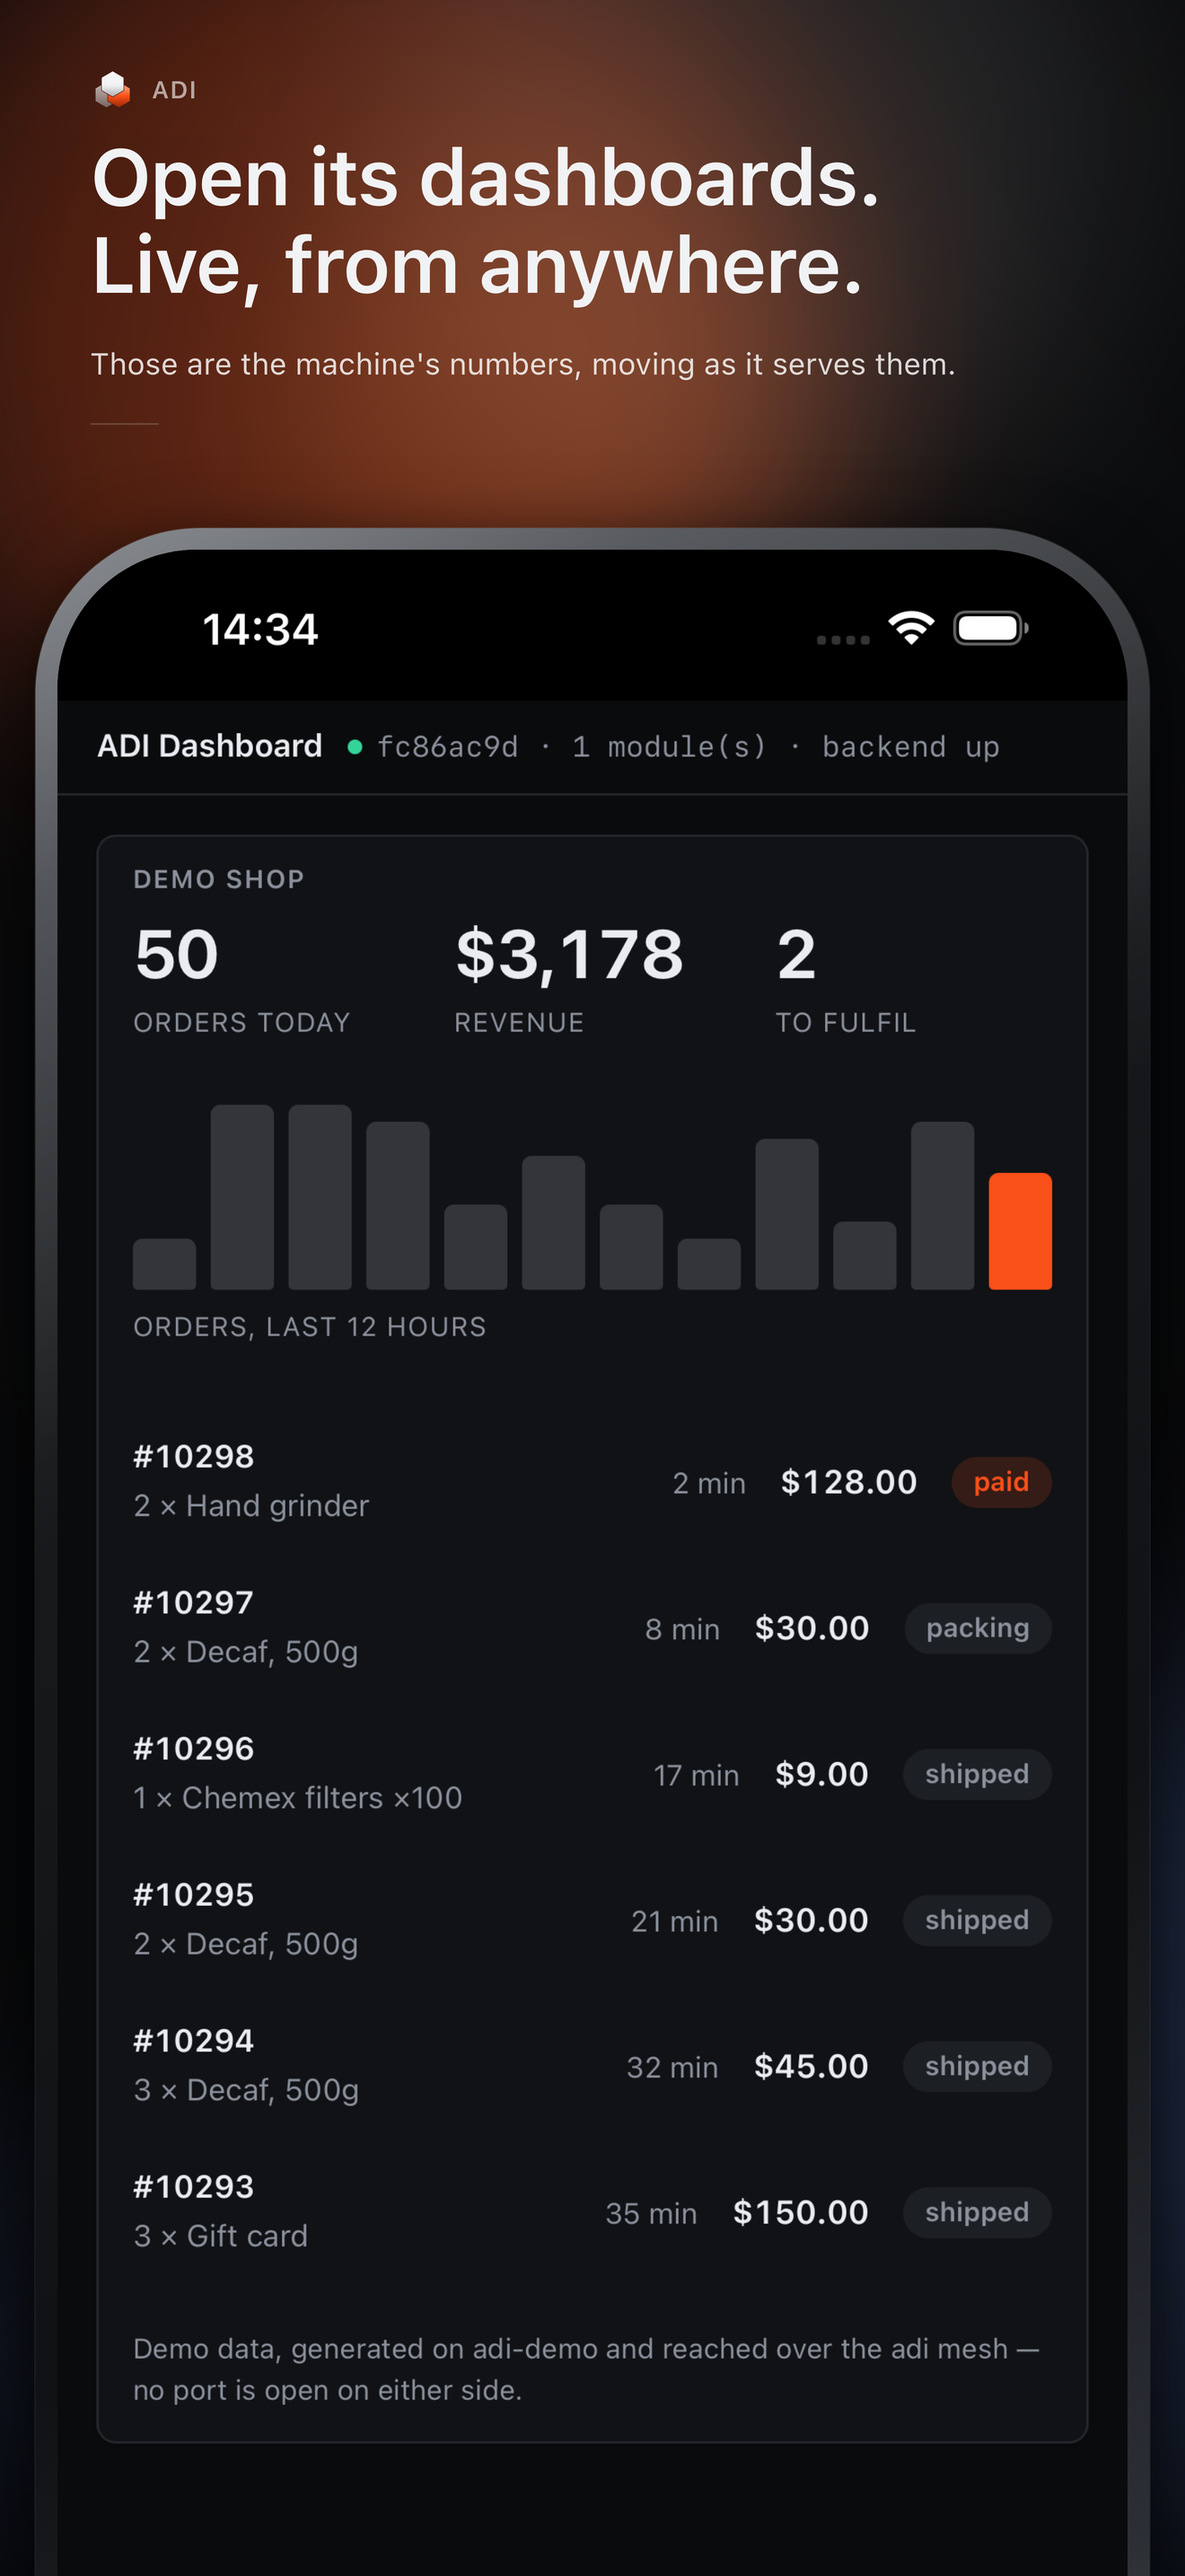
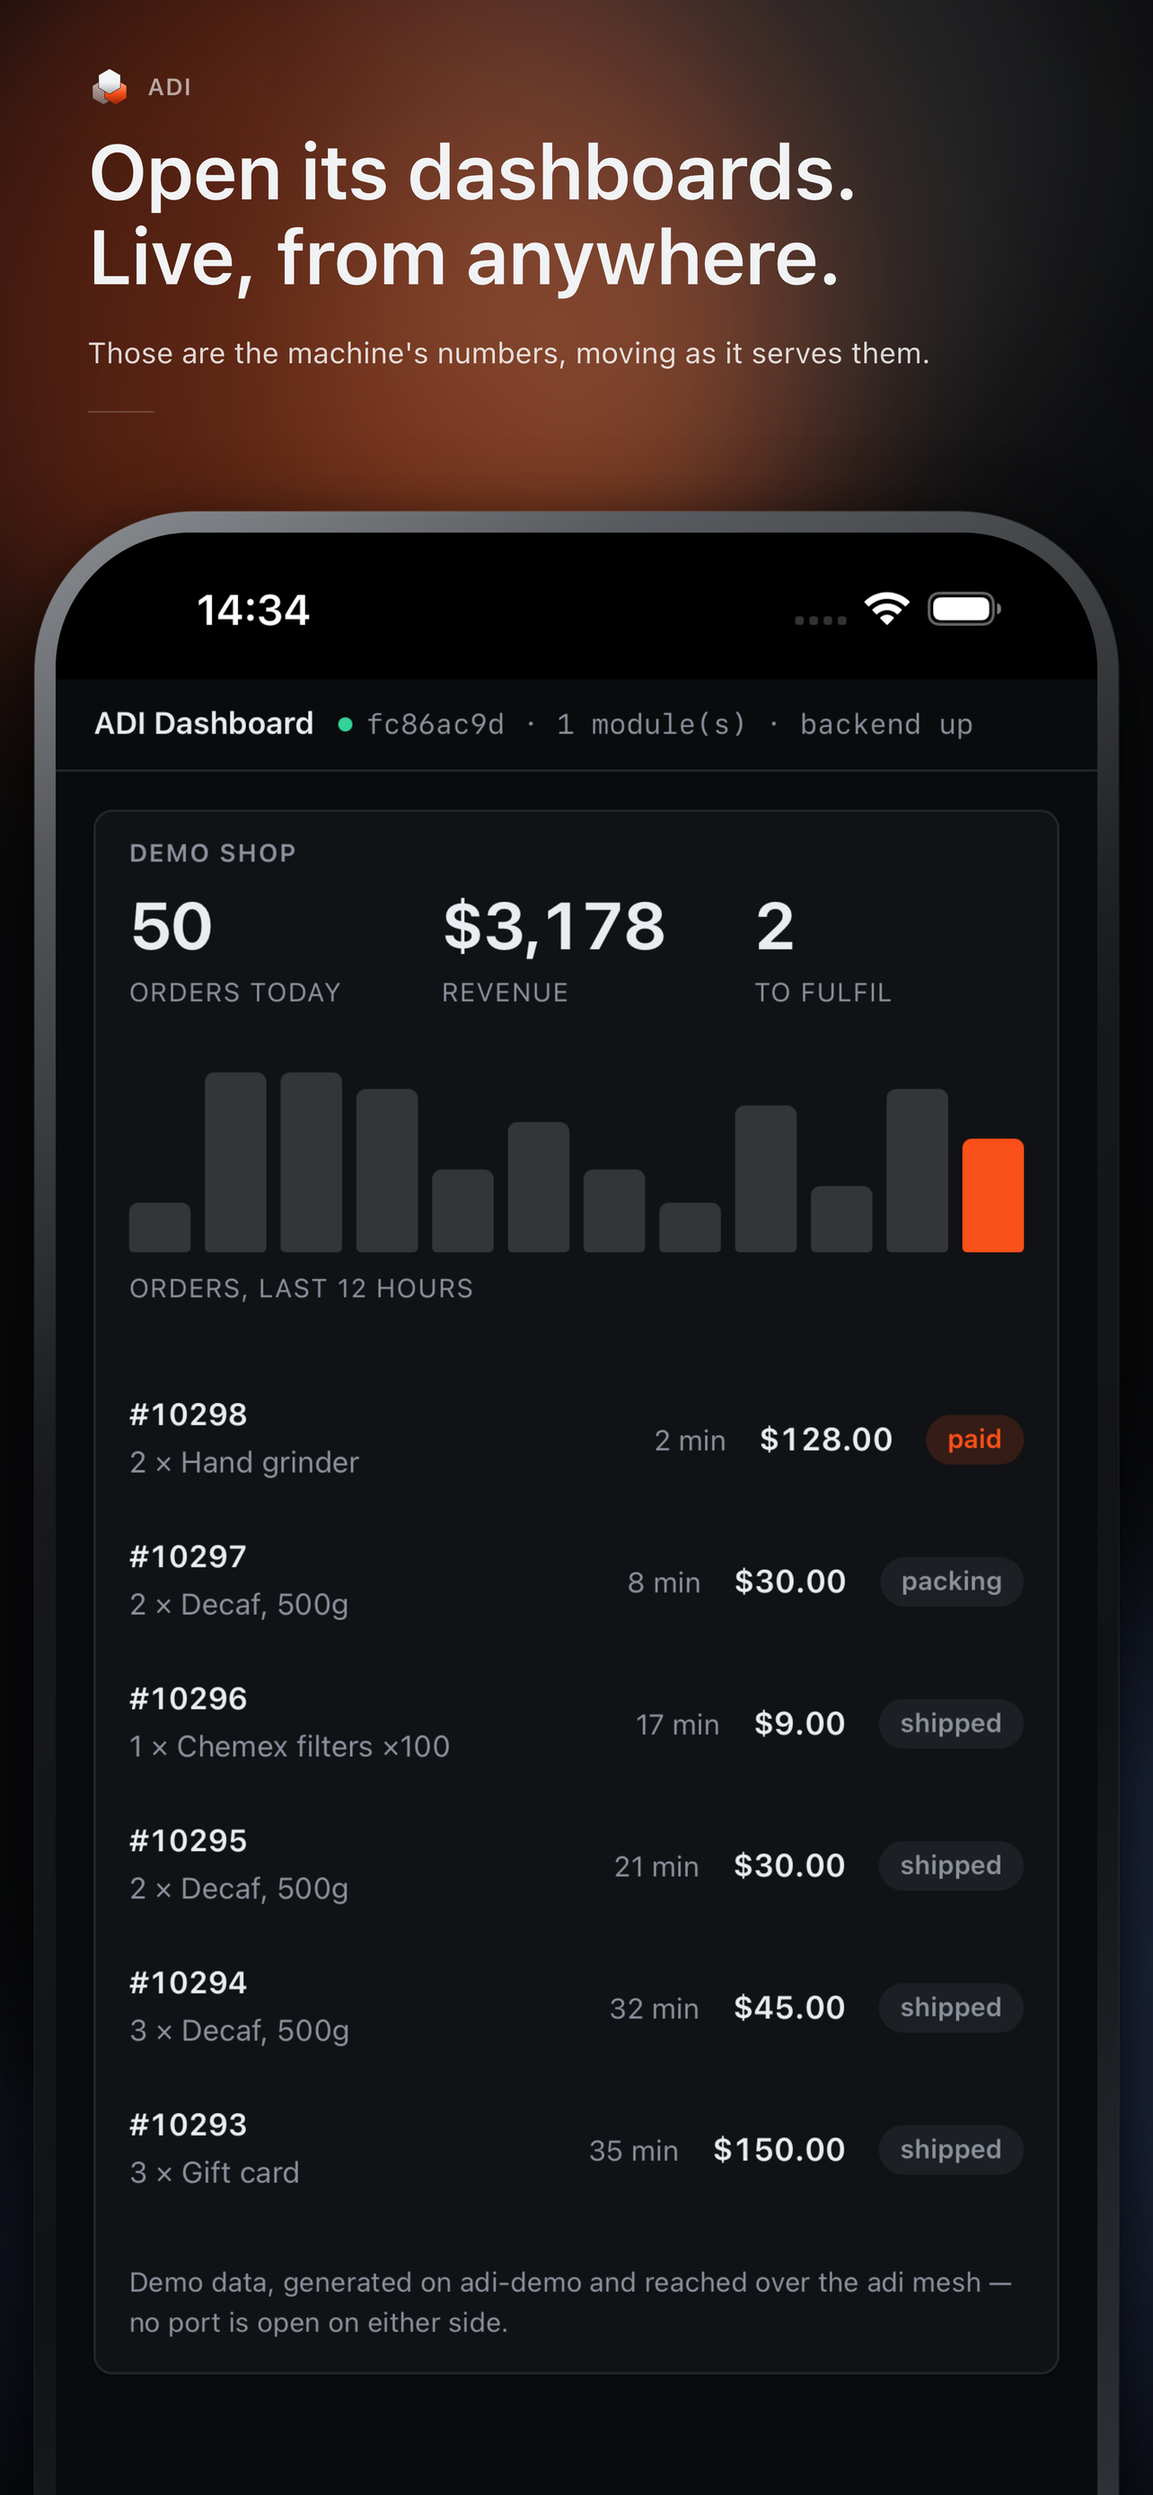
The iPhone panels are the size the listing asks for
App Store Connect wants the 6.5-inch slot — 1242x2688 or 1284x2778 — and these
were 1320x2868, which is the 6.9-inch phone the simulator shoots on.

Nothing is re-shot for that, because the canvas and the capture were never the
same thing. A panel is a composition: the capture sits inside a drawn device at
its own aspect, and the canvas around it is whatever size is being asked for.
1320x2868 is 0.4603 wide-to-tall and 1284x2778 is 0.4622, so the phone in the
frame is the same shape either way, and panel.html derives the device's height
from the capture's own pixels — it cannot stretch a screenshot even if asked.

Conflating the two is what produced the wrong size in the first place: the
renderer read the panel's dimensions off the first capture it found.

iPad is unchanged at 2064x2752, which the listing already accepted.

diff --git a/apps/ios/appstore-connect.md b/apps/ios/appstore-connect.md
@@ -37,8 +37,8 @@ Work through it in App Store Connect's own order. Everything below is for **adi 
 
 Drag these in, in order. Both sets are required because the app ships for iPhone and iPad.
 
-- **iPhone 6.9"** → `apps/ios/shots/iphone/store/` — `01-fleet.png`, `02-dashboard.png`,
-  `03-invite.png`, `04-empty.png`  (1320×2868)
+- **iPhone 6.5"** → `apps/ios/shots/iphone/store/` — `01-fleet.png`, `02-dashboard.png`,
+  `03-invite.png`, `04-empty.png`  (**1284×2778**, which is what this listing asks for)
 - **iPad 13"** → `apps/ios/shots/ipad/store/` — same four names  (2064×2752)
 
 ### Promotional Text  *(optional, editable without a review)*
